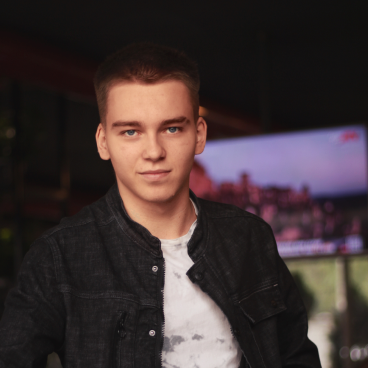
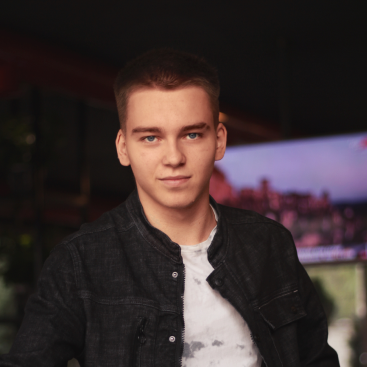
Kodovani responzivity sekce header+main, pridani animaci

diff --git a/src/sass/style.sass b/src/sass/style.sass
@@ -28,6 +28,7 @@ body
     color: #fff
     +reg
 
+
 .header
     margin-top: 55px
     &-block
@@ -40,6 +41,8 @@ body
 .socials
     &-logo
         margin-left: 20px
+        @media (max-width: 400px)
+            margin-left: 15px
         img
             width: 17px
             height: 17px
@@ -49,28 +52,45 @@ body
 .main
     padding-top: 100px
     background: linear-gradient(0.01deg, #000000 0.01%, rgba(0, 0, 0, 0) 95.44%)  
+    padding-bottom: 155px
     &-block
         display: flex
         flex-direction: row-reverse
         justify-content: space-between
+        @media (max-width: 660px)
+            flex-direction: column
+            text-align: center
     &-text
         width: 50%
         display: flex
         flex-direction: column
-        justify-content: center
+        justify-content: center660px
+        @media (max-width: 660px)
+            width: 100%
+            text-align: center
         &__subtitle
             color: #FFBB01
             font-size: 24px
             margin-bottom: 14px
+            @media (max-width: 450px)
+                font-size: 1em
+                
         &__title
             +bold
             font-size: 50px
+            margin-top: 0
             margin-bottom: 20px
+            @media (max-width: 450px)
+                font-size: 1.5em
         &__desc
             max-width: 420px
             font-size: 16px
             line-height: 28px
             margin-bottom: 38px
+            @media (max-width: 660px)
+                margin: auto
+            @media (max-width: 450px)
+                font-size: 14px
         &__button
             max-width: 285px
             width: 100%
@@ -81,6 +101,10 @@ body
             background: linear-gradient(180deg, #FFD95B 0%, #F0B514 100%)
             box-shadow: 0px 4px 0px #B68500
             cursor: pointer
+            @media (max-width: 660px)
+                margin-top: 40px
+                max-width: 230px
+                max-height: 44px
         &__buttonDesc
             text-decoration: none
             +bold
@@ -88,11 +112,20 @@ body
             color: #2E2E30
     &__image
         width: 50%
-        text-align: center
+        padding-left: 20px
+        @media (max-width: 660px)
+            padding-left: 0px
+            width: 100%
+            text-align: center
         img
             max-width: 400px
             max-height: 400px
             width: 100%
             border: white 5px solid
             border-radius: 1000px
-
+            @media (max-width: 660px)
+                max-width: 200px
+                max-height: 200px
+            @media (max-width: 450px)
+                max-width: 150px
+                max-height: 150px

diff --git a/src/css/style.css b/src/css/style.css
@@ -61,6 +61,11 @@ body {
 .socials-logo {
   margin-left: 20px;
 }
+@media (max-width: 400px) {
+  .socials-logo {
+    margin-left: 15px;
+  }
+}
 .socials-logo img {
   width: 17px;
   height: 17px;
@@ -69,34 +74,68 @@ body {
 .main {
   padding-top: 100px;
   background: linear-gradient(0.01deg, #000000 0.01%, rgba(0, 0, 0, 0) 95.44%);
+  padding-bottom: 155px;
 }
 .main-block {
   display: flex;
   flex-direction: row-reverse;
   justify-content: space-between;
 }
+@media (max-width: 660px) {
+  .main-block {
+    flex-direction: column;
+    text-align: center;
+  }
+}
 .main-text {
   width: 50%;
   display: flex;
   flex-direction: column;
-  justify-content: center;
+  justify-content: center660px;
+}
+@media (max-width: 660px) {
+  .main-text {
+    width: 100%;
+    text-align: center;
+  }
 }
 .main-text__subtitle {
   color: #FFBB01;
   font-size: 24px;
   margin-bottom: 14px;
 }
+@media (max-width: 450px) {
+  .main-text__subtitle {
+    font-size: 1em;
+  }
+}
 .main-text__title {
   font-family: "Roboto Bold", sans-serif;
   font-weight: 700px;
   font-size: 50px;
+  margin-top: 0;
   margin-bottom: 20px;
+}
+@media (max-width: 450px) {
+  .main-text__title {
+    font-size: 1.5em;
+  }
 }
 .main-text__desc {
   max-width: 420px;
   font-size: 16px;
   line-height: 28px;
   margin-bottom: 38px;
+}
+@media (max-width: 660px) {
+  .main-text__desc {
+    margin: auto;
+  }
+}
+@media (max-width: 450px) {
+  .main-text__desc {
+    font-size: 14px;
+  }
 }
 .main-text__button {
   max-width: 285px;
@@ -109,6 +148,13 @@ body {
   box-shadow: 0px 4px 0px #B68500;
   cursor: pointer;
 }
+@media (max-width: 660px) {
+  .main-text__button {
+    margin-top: 40px;
+    max-width: 230px;
+    max-height: 44px;
+  }
+}
 .main-text__buttonDesc {
   text-decoration: none;
   font-family: "Roboto Bold", sans-serif;
@@ -118,7 +164,14 @@ body {
 }
 .main__image {
   width: 50%;
-  text-align: center;
+  padding-left: 20px;
+}
+@media (max-width: 660px) {
+  .main__image {
+    padding-left: 0px;
+    width: 100%;
+    text-align: center;
+  }
 }
 .main__image img {
   max-width: 400px;
@@ -126,4 +179,16 @@ body {
   width: 100%;
   border: white 5px solid;
   border-radius: 1000px;
+}
+@media (max-width: 660px) {
+  .main__image img {
+    max-width: 200px;
+    max-height: 200px;
+  }
+}
+@media (max-width: 450px) {
+  .main__image img {
+    max-width: 150px;
+    max-height: 150px;
+  }
 }/*# sourceMappingURL=style.css.map */

diff --git a/index.html b/index.html
@@ -50,11 +50,10 @@
                         <img src="src/img/me.png" alt="portret">
                     </div>
                     <div class="main-text">
-                        <div class="main-text__subtitle">Freelancer</div>
-                        <div class="main-text__title">Tomáš Hojgr</div>
-                        <div class="main-text__desc">Vyvijím webové stránky pro malé a střední podniky. U mě si můžete objednat návrh a vyhotovení webové stránky nebo menšího e-shopu.</div>
-    
-                        <a href="#" class="main-text__buttonDesc">
+                        <h2 class="main-text__subtitle">Freelancer</h2>
+                        <h1 class="main-text__title">Tomáš Hojgr</h1>
+                        <span class="main-text__desc">Vyvijím webové stránky pro malé a střední podniky. U mě si můžete objednat návrh a vyhotovení webové stránky nebo menšího e-shopu.</span>
+                        <a href="#" class="main-text__buttonDesc animate__animated" id="mainButton">
                             <button class="main-text__button">KONZULTACE ZDARMA</button>
                         </a>
                     </div>
@@ -62,5 +61,10 @@
             </div>
         </section>
     </main>
+    <script src="src/jquery-3.6.3.min.js"></script>
+    <script src="src/js/slick.min.js"></script>
+    <script src="src/js/wow.min.js"></script>
+    <script src="src/js/jquery.validate.min.js"></script>
+    <script src="src/js/main.js"></script>
 </body>
 </html>

diff --git a/src/js/main.js b/src/js/main.js
@@ -1,0 +1,13 @@
+$(document).ready(function(){
+    var button = $('#mainButton');
+
+    button.on('mouseenter', function(){
+        button.addClass('animate__headShake')
+    });
+
+    button.on('mouseleave', function(){
+        button.removeClass('animate__headShake')
+    });
+    
+    
+});

diff --git a/src/sass/_vars.sass b/src/sass/_vars.sass
@@ -1,1 +1,2 @@
 $background: #20202D
+$buttonColor: #F0B514
